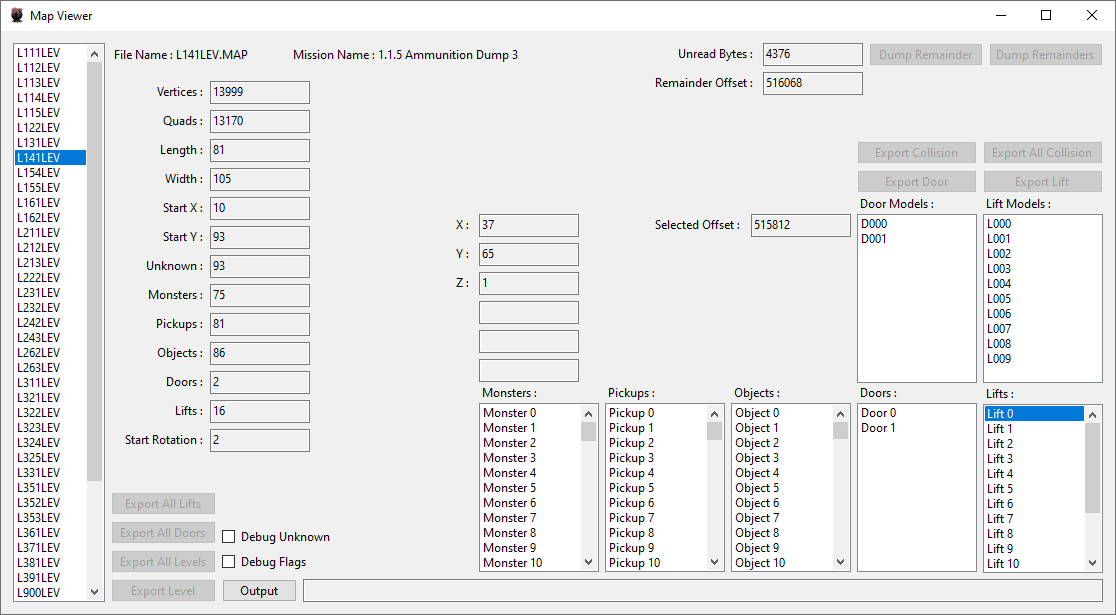
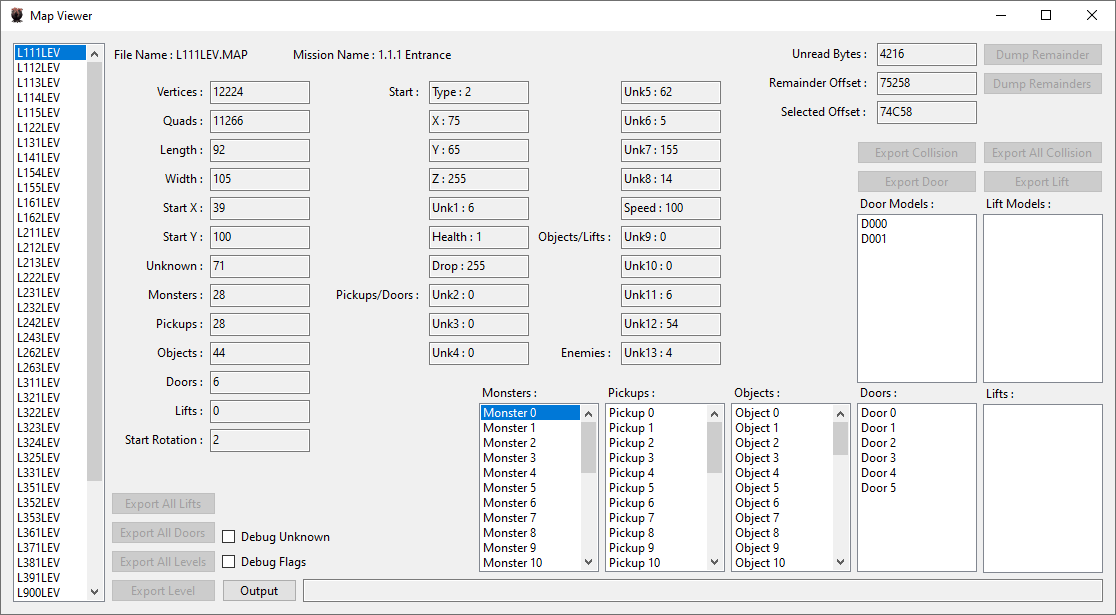
byte listings

diff --git a/ALTViewer/MapViewer.Designer.cs b/ALTViewer/MapViewer.Designer.cs
@@ -117,6 +117,8 @@
             textBox37 = new TextBox();
             label19 = new Label();
             label20 = new Label();
+            label21 = new Label();
+            label22 = new Label();
             SuspendLayout();
             // 
             // listBox1
@@ -526,7 +528,7 @@
             // 
             // textBox13
             // 
-            textBox13.Location = new Point(394, 50);
+            textBox13.Location = new Point(428, 50);
             textBox13.Name = "textBox13";
             textBox13.ReadOnly = true;
             textBox13.Size = new Size(100, 23);
@@ -534,7 +536,7 @@
             // 
             // textBox14
             // 
-            textBox14.Location = new Point(394, 79);
+            textBox14.Location = new Point(428, 79);
             textBox14.Name = "textBox14";
             textBox14.ReadOnly = true;
             textBox14.Size = new Size(100, 23);
@@ -542,7 +544,7 @@
             // 
             // textBox15
             // 
-            textBox15.Location = new Point(394, 108);
+            textBox15.Location = new Point(428, 108);
             textBox15.Name = "textBox15";
             textBox15.ReadOnly = true;
             textBox15.Size = new Size(100, 23);
@@ -550,7 +552,7 @@
             // 
             // textBox16
             // 
-            textBox16.Location = new Point(394, 137);
+            textBox16.Location = new Point(428, 137);
             textBox16.Name = "textBox16";
             textBox16.ReadOnly = true;
             textBox16.Size = new Size(100, 23);
@@ -558,7 +560,7 @@
             // 
             // textBox17
             // 
-            textBox17.Location = new Point(394, 166);
+            textBox17.Location = new Point(428, 166);
             textBox17.Name = "textBox17";
             textBox17.ReadOnly = true;
             textBox17.Size = new Size(100, 23);
@@ -566,7 +568,7 @@
             // 
             // textBox18
             // 
-            textBox18.Location = new Point(394, 195);
+            textBox18.Location = new Point(428, 195);
             textBox18.Name = "textBox18";
             textBox18.ReadOnly = true;
             textBox18.Size = new Size(100, 23);
@@ -818,7 +820,7 @@
             // 
             // textBox24
             // 
-            textBox24.Location = new Point(394, 224);
+            textBox24.Location = new Point(428, 224);
             textBox24.Name = "textBox24";
             textBox24.ReadOnly = true;
             textBox24.Size = new Size(100, 23);
@@ -826,7 +828,7 @@
             // 
             // textBox25
             // 
-            textBox25.Location = new Point(394, 253);
+            textBox25.Location = new Point(428, 253);
             textBox25.Name = "textBox25";
             textBox25.ReadOnly = true;
             textBox25.Size = new Size(100, 23);
@@ -834,7 +836,7 @@
             // 
             // textBox26
             // 
-            textBox26.Location = new Point(394, 282);
+            textBox26.Location = new Point(428, 282);
             textBox26.Name = "textBox26";
             textBox26.ReadOnly = true;
             textBox26.Size = new Size(100, 23);
@@ -842,7 +844,7 @@
             // 
             // textBox27
             // 
-            textBox27.Location = new Point(394, 311);
+            textBox27.Location = new Point(428, 311);
             textBox27.Name = "textBox27";
             textBox27.ReadOnly = true;
             textBox27.Size = new Size(100, 23);
@@ -931,7 +933,7 @@
             // label19
             // 
             label19.AutoSize = true;
-            label19.Location = new Point(351, 53);
+            label19.Location = new Point(385, 53);
             label19.Name = "label19";
             label19.Size = new Size(37, 15);
             label19.TabIndex = 98;
@@ -940,17 +942,37 @@
             // label20
             // 
             label20.AutoSize = true;
-            label20.Location = new Point(581, 314);
+            label20.Location = new Point(557, 314);
             label20.Name = "label20";
-            label20.Size = new Size(33, 15);
+            label20.Size = new Size(57, 15);
             label20.TabIndex = 99;
-            label20.Text = "End :";
+            label20.Text = "Enemies :";
+            // 
+            // label21
+            // 
+            label21.AutoSize = true;
+            label21.Location = new Point(332, 256);
+            label21.Name = "label21";
+            label21.Size = new Size(90, 15);
+            label21.TabIndex = 100;
+            label21.Text = "Pickups/Doors :";
+            // 
+            // label22
+            // 
+            label22.AutoSize = true;
+            label22.Location = new Point(534, 198);
+            label22.Name = "label22";
+            label22.Size = new Size(80, 15);
+            label22.TabIndex = 101;
+            label22.Text = "Objects/Lifts :";
             // 
             // MapViewer
             // 
             AutoScaleDimensions = new SizeF(7F, 15F);
             AutoScaleMode = AutoScaleMode.Font;
             ClientSize = new Size(1114, 583);
+            Controls.Add(label22);
+            Controls.Add(label21);
             Controls.Add(label20);
             Controls.Add(label19);
             Controls.Add(textBox28);
@@ -1136,5 +1158,7 @@
         private TextBox textBox37;
         private Label label19;
         private Label label20;
+        private Label label21;
+        private Label label22;
     }
 }

diff --git a/ALTViewer/MapViewer.cs b/ALTViewer/MapViewer.cs
@@ -38,8 +38,8 @@ namespace ALTViewer
             byte Unk1,
             byte Health, byte Drop,
             byte Unk2, byte Unk3, byte Unk4, byte Unk5, byte Unk6, byte Unk7, byte Unk8,
-            short Speed,
-            byte Unk9, byte Unk10, byte Unk11, byte Unk12,
+            byte Speed,
+            byte Unk9, byte Unk10, byte Unk11, byte Unk12, byte Unk13,
             long Offset)> enemies = new();
         private List<(byte X, byte Y, byte Type, byte Amount, byte Multiplier, byte Unk1, byte Z, byte Unk2, long Offset)> pickups = new();
         private List<(byte X, byte Y, byte ObjectType, byte DropType,
@@ -254,17 +254,18 @@ namespace ALTViewer
                 byte unk6 = br.ReadByte();                  // 05
                 byte unk7 = br.ReadByte();                  // 9B
                 byte unk8 = br.ReadByte();                  // 0E
-                short speed = br.ReadInt16();               // 100 //
+                byte speed = br.ReadByte();                 // 100 //
                 byte unk9 = br.ReadByte();                  // 00
                 byte unk10 = br.ReadByte();                 // 00
-                byte unk11 = br.ReadByte();                 // 06
-                byte unk12 = br.ReadByte();                 // 36
+                byte unk11 = br.ReadByte();                 // 00
+                byte unk12 = br.ReadByte();                 // 06
+                byte unk13 = br.ReadByte();                 // 36
                 enemies.Add((type, x, y, z,
                     unk1,
                     health, drop,
                     unk2, unk3, unk4, unk5, unk6, unk7, unk8,
                     speed,
-                    unk9, unk10, unk11, unk12,
+                    unk9, unk10, unk11, unk12, unk13,
                     offset));
             }
             //MessageBox.Show($"Pickups : {br.BaseStream.Position}"); // 478268 + 20 = 478288 ( L111LEV.MAP )
@@ -540,11 +541,11 @@ namespace ALTViewer
             textBox30.Text = $"Unk7 : {enemies[index].Unk7}";
             textBox31.Text = $"Unk8 : {enemies[index].Unk8}";
             textBox32.Text = $"Speed : {enemies[index].Speed}";
-            textBox33.Text = "null";
-            textBox34.Text = $"Unk9 : {enemies[index].Unk9}";
-            textBox35.Text = $"Unk10 : {enemies[index].Unk10}";
-            textBox36.Text = $"Unk11 : {enemies[index].Unk11}";
-            textBox37.Text = $"Unk12 : {enemies[index].Unk12}";
+            textBox33.Text = $"Unk9 : {enemies[index].Unk9}";
+            textBox34.Text = $"Unk10 : {enemies[index].Unk10}";
+            textBox35.Text = $"Unk11 : {enemies[index].Unk11}";
+            textBox36.Text = $"Unk12 : {enemies[index].Unk12}";
+            textBox37.Text = $"Unk13 : {enemies[index].Unk13}";
             textBox23.Text = $"{enemies[index].Offset:X2}";
         }
         // pickups
